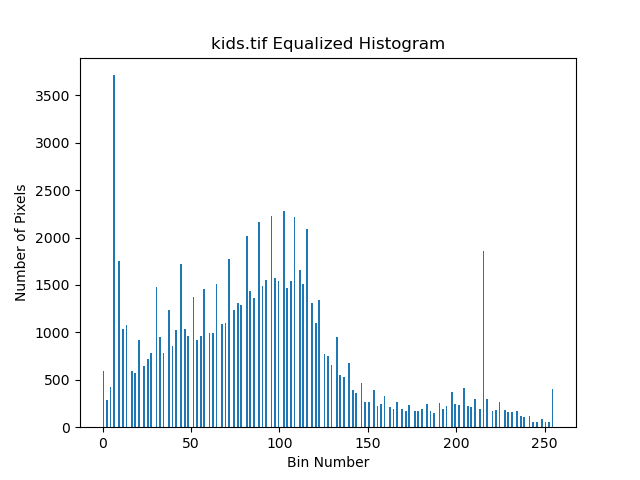
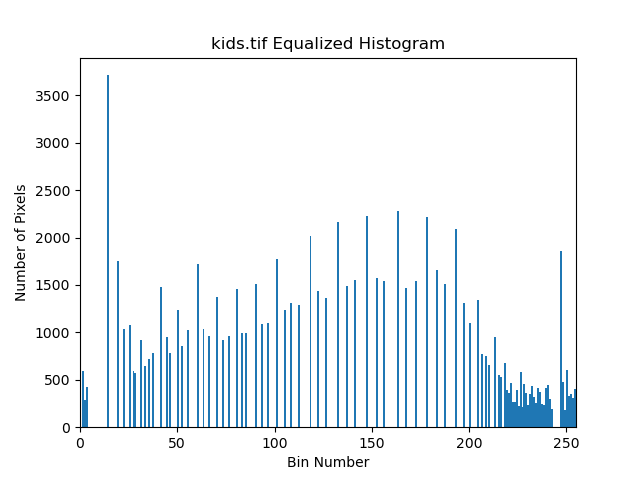
lab 4 final edits

Changed region(s): [[0.125, 0.1562, 0.9062, 0.9375]]

diff --git a/lab4/src/subfunctions.py b/lab4/src/subfunctions.py
@@ -33,11 +33,18 @@ def Fs(x, title, save, show=True):
     return Y
 
 def equalize(Y, title, save, show=True):
-    Ymin=np.min(Y.flatten())
-    Ymax=np.max(Y.flatten())
-    Z=255*((Y.flatten()-Ymin)/(Ymax-Ymin)) 
+    histx,bins = np.histogram(Y.flatten(), np.linspace(0,255,256), density=True)
+    cdf=np.cumsum(histx)
+    t=np.floor(255*cdf).astype(np.uint8)
+
+    Z=np.zeros(Y.shape)
+
+    for i in range (Y.shape[0]):
+        for j in range (Y.shape[1]):
+            Z[i][j]=t[Y[i][j]]
     plt.figure(5)
-    plt.hist(Z.flatten(), bins=np.linspace(0, 255, 256))
+    plt.hist(Z.flatten(), bins=np.linspace(0,255,256))
+    plt.xlim((0,255))
     plt.title(title)
     plt.xlabel("Bin Number")
     plt.ylabel("Number of Pixels")
@@ -45,8 +52,23 @@ def equalize(Y, title, save, show=True):
         plt.savefig(save)
     if show:
         plt.show()
+    return Z
     
-    return np.uint8(Z)
+
+    # Ymin=np.min(Y.flatten())
+    # Ymax=np.max(Y.flatten())
+    # Z=255*((Y.flatten()-Ymin)/(Ymax-Ymin)) 
+    # plt.figure(5)
+    # plt.hist(Z.flatten(), bins=np.linspace(0, 255, 256))
+    # plt.title(title)
+    # plt.xlabel("Bin Number")
+    # plt.ylabel("Number of Pixels")
+    # if save:
+    #     plt.savefig(save)
+    # if show:
+    #     plt.show()
+    
+    # return np.uint8(Z)
 
 def editedImage(x, title, save, show=True):
     print("entered edited image")
@@ -79,22 +101,29 @@ def stretch(x, T1, T2, title, save, show=True):
         plt.show()
     return s
 
+def clip(x):
+    if (x>255):
+        x=255
+    elif (x<0):
+        x=0
+    return x
+
 def gamma(x, g):
     size=x.shape
     cor=np.zeros(x.shape)
-    print(cor)
-    for i in range(1, size[0]):
+    for i in range(0, size[0]):
         for j in range (1, size[1]):
-            cor[i,j]=255*(x[i,j]/255)**g
+            cor[i,j]=255*(x[i,j]/255)**(1/g)
+            clip(cor[i,j]) 
 
     return cor
 
 def norGamma(x, g1, g2):
     size=x.shape
     cor=np.zeros(x.shape)
-    print(cor)
-    for i in range(1, size[0]):
+    for i in range(0, size[0]):
         for j in range (1, size[1]):
-            cor[i,j]=255*(x[i,j]/255)**(g1/g2)
+            cor[i,j]=255*(x[i,j]/255)**(g2/g1)
+            clip(cor[i,j])
 
     return cor

diff --git a/lab4/src/mainFunc.py b/lab4/src/mainFunc.py
@@ -30,31 +30,33 @@ if __name__== '__main__':
     # fname=f"hist_"+image+".png"
     # histogram(x,title,fname,True)
     print(operation)
-    if (operation==1): #equalization
-        print("entered equalization")
-        #find cdf of image
-        cdftitle="CDF of "+image
-        cdfname=f"cdf_"+image+".png"
-        Y=Fs(x, cdftitle, cdfname, True)
+    # if (operation==1): #equalization
+    print("entered equalization")
+    #find cdf of image
+    cdftitle="CDF of "+image
+    cdfname=f"cdf2_"+image+".png"
+    Y=Fs(x, cdftitle, cdfname, True)
 
-        #equalize image
-        eqtitle=image+" Equalized Histogram2"
-        eqname=f"equailzed_hist2_"+image+".png"
-        Z=equalize(x, eqtitle, eqname,True)
+    #equalize image
+    eqtitle=image+" Equalized Histogram"
+    eqname=f"equailzed_hist_"+image+".png"
+    Z=equalize(x, eqtitle, eqname,True)
 
-        eqim="Equalized Image2"
-        eqimname=f"equalize2_"+image+".png" 
-        editedImage(Z, eqim, eqimname,True)
-    else: #(operation==2): #stretch
-        print("entered stretch")
-        shisttitle="Contrast Stretch Histogram"
-        shistname="stretch_hist"+image+".png"
-        T1=min(x.flatten())
-        T2=max(x.flatten())
-        print("T1: "+str(T1)+" T2: "+str(T2))
-        s=stretch(x, T1, T2, shisttitle, shistname)
-        print(s.shape)
-        sim=np.reshape(s,x.shape)
-        stitle="Contrast Stretch Image"
-        sname=f"stretch_"+image+".png"
-        editedImage(sim, stitle,sname, True)
+    eqim="Equalized Image"
+    eqimname=f"equalize_"+image+".png" 
+    editedImage(Z, eqim, eqimname,True)
+
+    # else: #(operation==2): #stretch
+    #     print("entered stretch")
+    #     shisttitle="Contrast Stretch Histogram"
+    #     shistname="stretch_hist"+image+".png"
+    #     T1=min(x.flatten())
+    #     T2=max(x.flatten())
+    #     print("T1: "+str(T1)+" T2: "+str(T2))
+    #     s=stretch(x, T1, T2, shisttitle, shistname)
+    #     print(s.shape)
+    #     sim=np.reshape(s,x.shape)
+    #     stitle="Contrast Stretch Image"
+    #     sname=f"stretch_"+image+".png"
+    #     editedImage(sim, stitle,sname, True)
+    

diff --git a/lab4/src/gamma_images.py b/lab4/src/gamma_images.py
@@ -24,10 +24,10 @@ if __name__== '__main__':
 
     print(g1)
     G=gamma(x, g1)
-    ctitle="Gamma Corrected Image with gamma="+str(g1)
+    ctitle="Gamma Corrected Image with gray level="+str(glvl)+" and gamma="+str(np.round(g1,4))
     cname="gcor"+str(g1)+image+".png"
     editedImage(G+1, ctitle, cname, True)
-    ntitle="Gamma Corrected for 1.5 with gamma="+str(g1)
+    ntitle="Gamma Corrected for 1.5 with gray level="+str(glvl)+" and gamma="+str(np.round(g1, 4))
     nname=f"gama15"+str(g1)+".png"
     Gnorm=norGamma(x2,g1,g2)
     editedImage(Gnorm+1, ntitle, nname, True)

diff --git a/lab4/src/checkerboard.py b/lab4/src/checkerboard.py
@@ -23,3 +23,13 @@ if __name__== '__main__':
 
     
 
+    xgray=glvl*np.ones((32*2,512*2))
+    funit=np.array([[255, 255, 0, 0],[255, 255, 0 , 0], [0 , 0, 255, 255],[ 0, 0, 255, 255]])
+    xcheck=mb.repmat(funit, 8*2, 16*16)
+    xunit=np.vstack((xcheck, xgray))
+    x=mb.repmat(xunit, 32, 4)
+    title="Checker Board Image 1024 with gray level="+str(glvl)
+    fname=f"checkerboard1024{glvl}.png"
+    editedImage(x+1, title, fname, True)
+
+    
